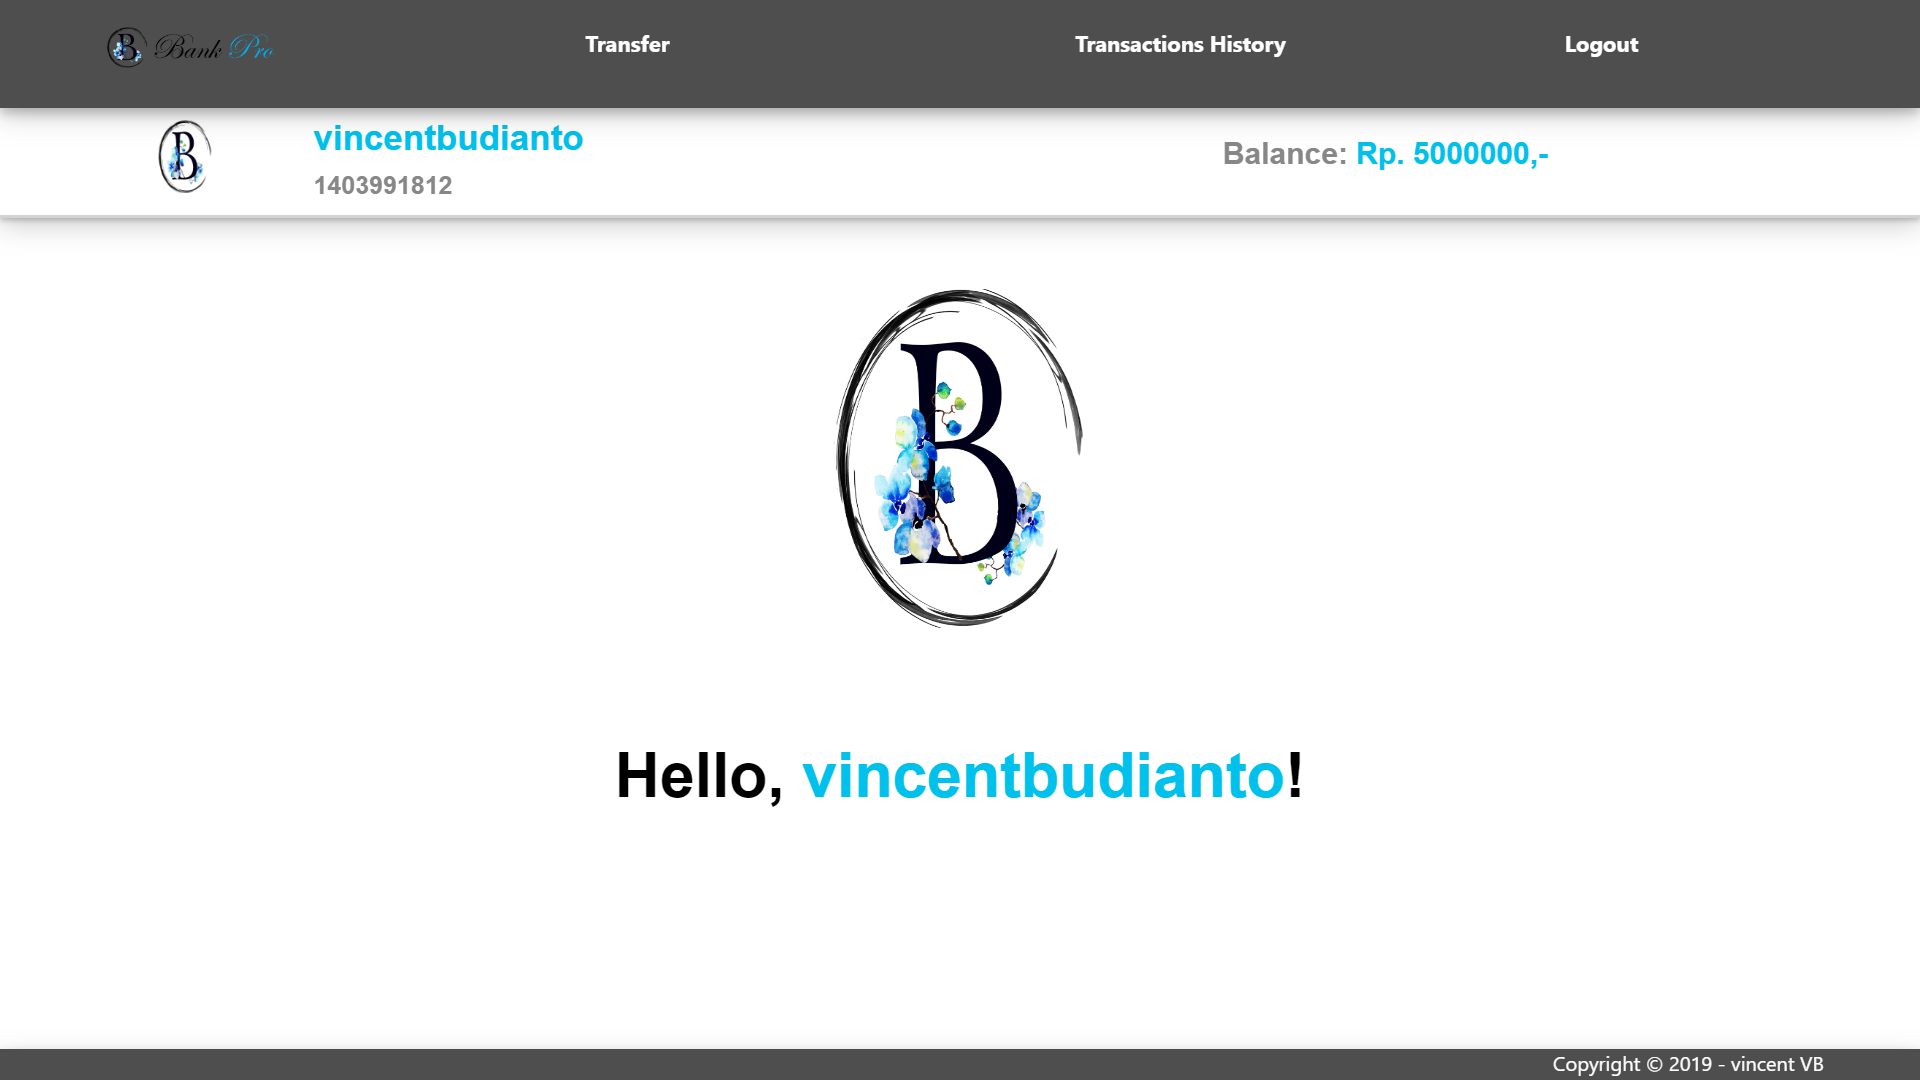
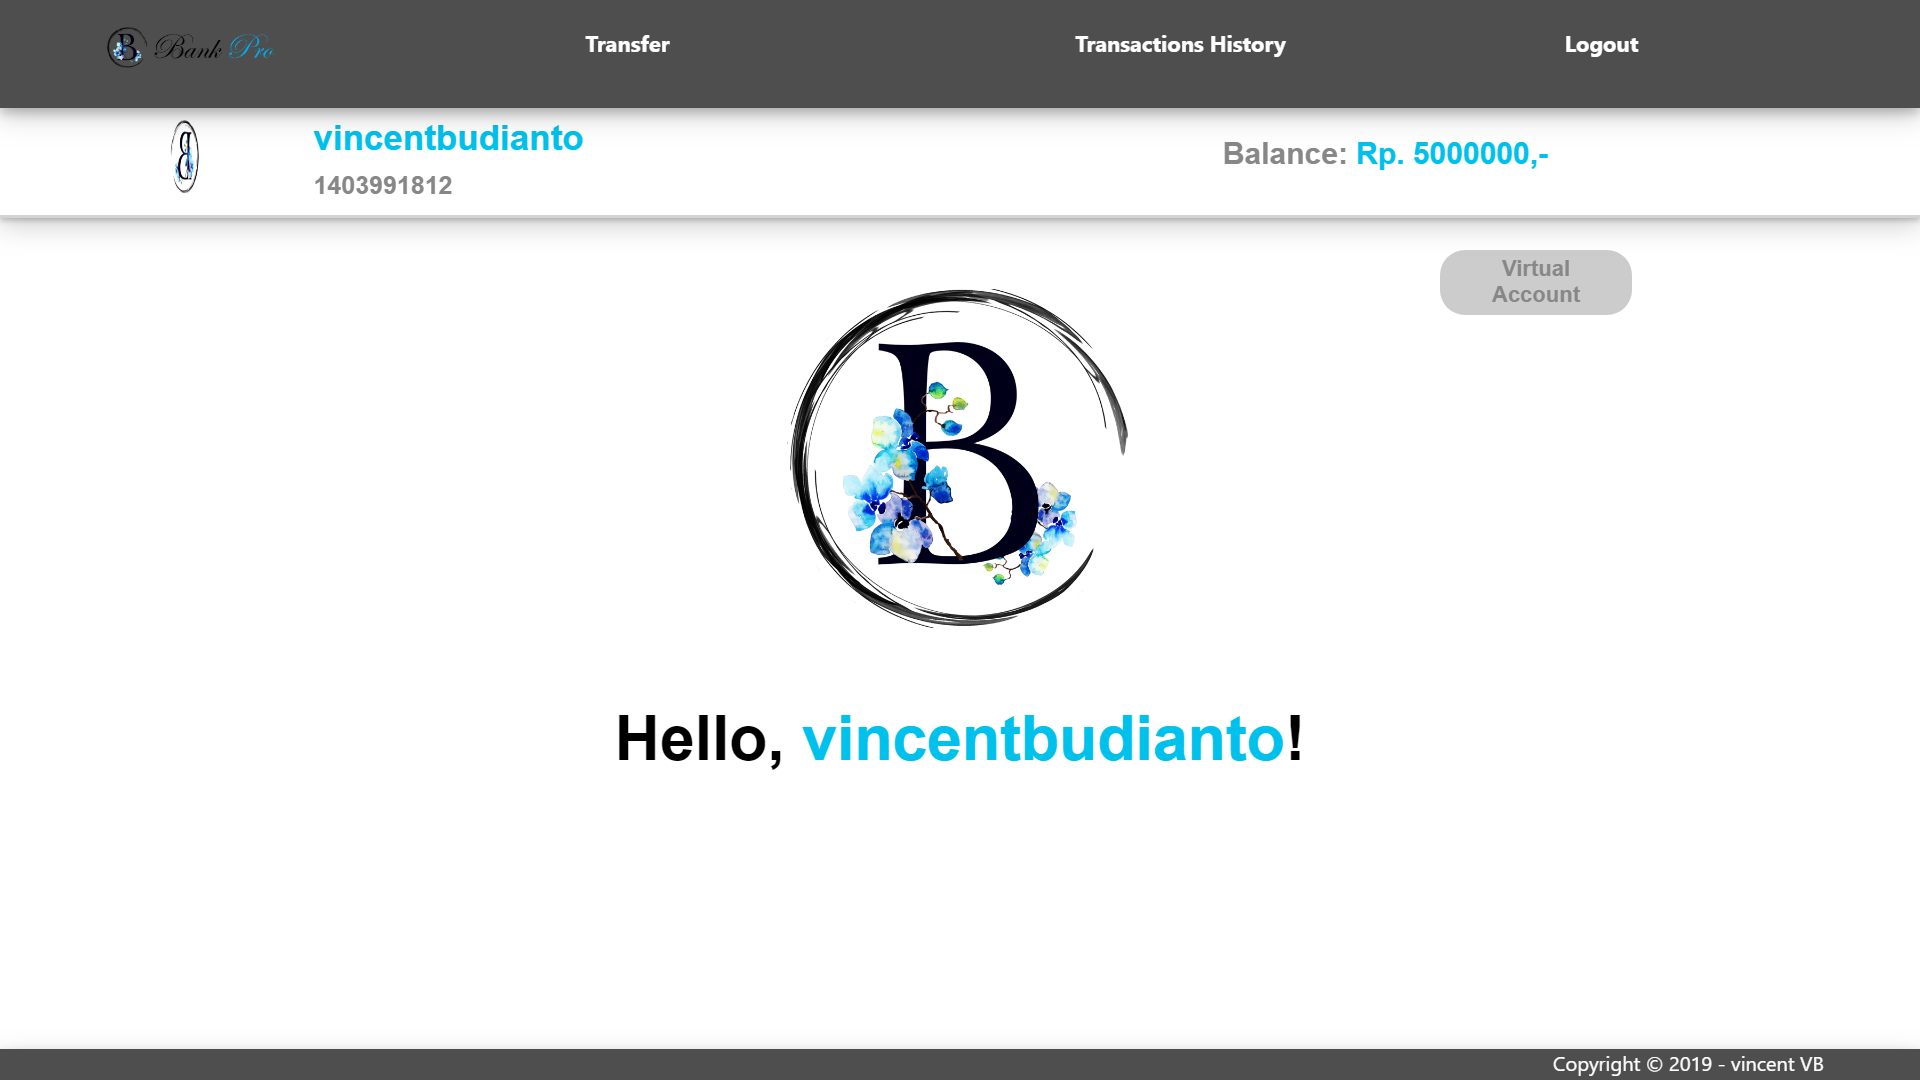
docs(Bank Pro): Add generate virtual number documentation on readme

diff --git a/README.md b/README.md
@@ -39,6 +39,9 @@ ketikan ```npm start``` pada direktori aplikasi Bank Pro
 ![](screenshots/title2.png)
 <br>
 <br>
+![](screenshots/title3.png)
+<br>
+<br>
 
 ### Login
 
